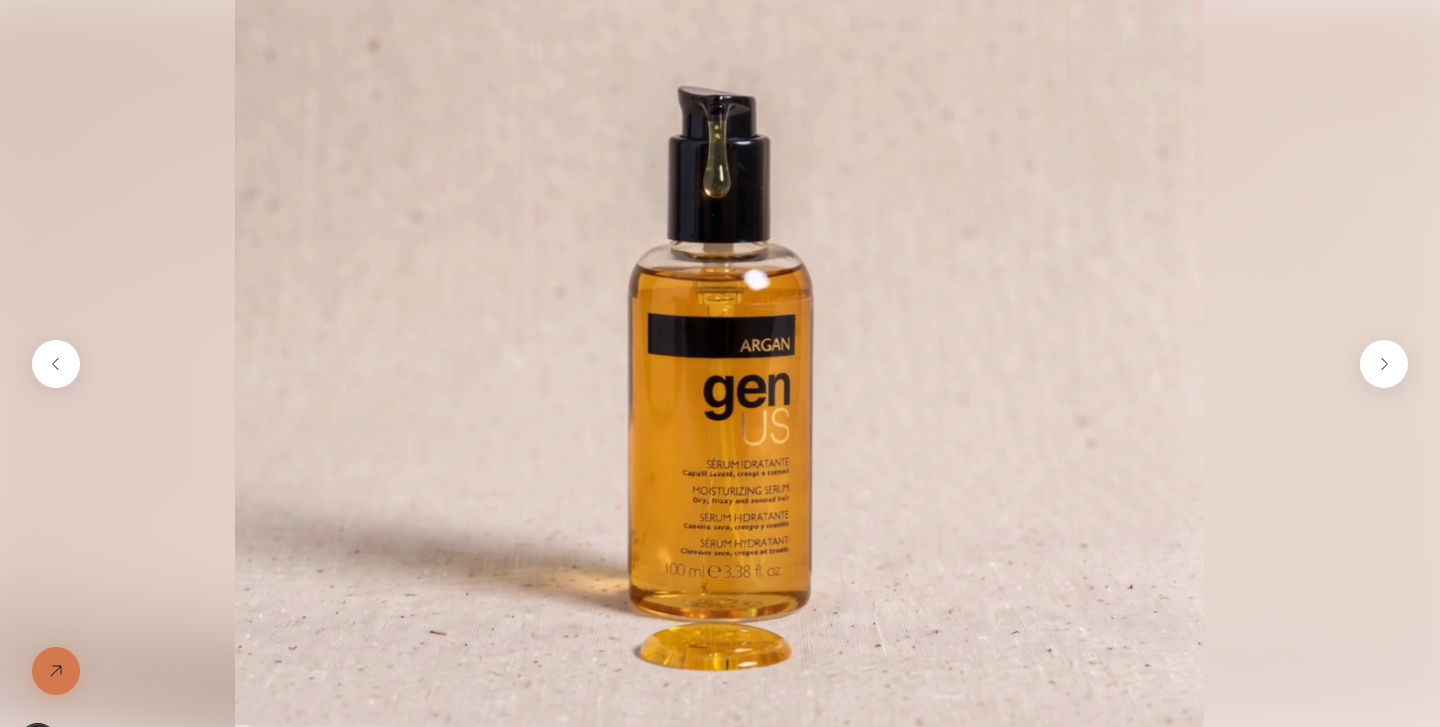
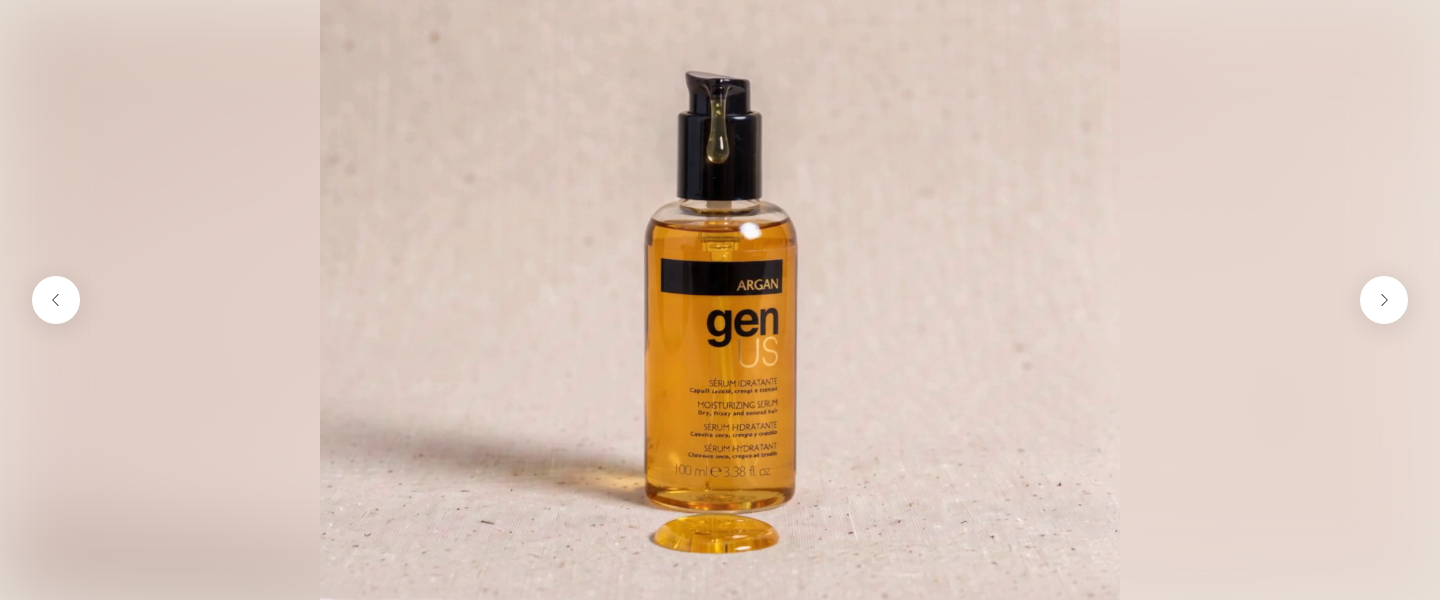
Hero: shorter height, sharper images
600px tall on desktop (max 70% of the screen), 420px on phones, full width,
square corners. No scale or zoom on the slides; photo slides use quality 90,
sizes 100vw and priority. New Adara slide now a full-resolution 3302x2300
crop of the original around her eye and the bottles, focus 80% 25%.
Removed the orange arrow-up-right button (it linked to the current product's
page). Announcement strip is one full-text line; the header search box and
footer newsletter column no longer force a sideways scroll on screens under
1440px, which is what was clipping the strip text.

diff --git a/src/components/home/Hero.tsx b/src/components/home/Hero.tsx
@@ -1,7 +1,6 @@
 "use client";
 
 import Image from "next/image";
-import Link from "next/link";
 import { useCallback, useEffect, useRef, useState } from "react";
 import { useGSAP } from "@gsap/react";
 import { gsap, reducedMotion } from "@/components/motion/gsap";
@@ -24,14 +23,13 @@ const HOLD_MS = 5000;
 const GLIDE_S = 1.6;
 
 const key = (s: HeroSlide) => ("product" in s ? s.product.handle : s.image);
-const linkOf = (s: HeroSlide) => ("product" in s ? { href: `/products/${s.product.handle}`, title: s.product.title } : { href: s.href, title: s.title });
 
 /**
- * Hero slideshow, sized like Peak Design's hero (measured 2026-10-04): a square-edged block that
- * runs edge to edge, 1440 × 727 on desktop and 390 × 397 on phones (Peak's phone hero is that photo
- * plus a 360px text panel; ours has no text panel). One slide at a time: a product slide plays its
- * pour clip, then the next slide glides in slowly; a photo slide holds 5 seconds. Arrows only; the
- * show pauses while hovered or when the tab is hidden.
+ * Hero slideshow: a square-edged block that runs edge to edge, 600px tall on desktop (never more than
+ * 70% of the screen height) and 420px on phones. One slide at a time: a product slide plays its pour
+ * clip, then the next slide glides in slowly; a photo slide holds 5 seconds. Arrows only; the show
+ * pauses while hovered or when the tab is hidden. No scale or zoom is ever applied to the slides, so
+ * the clips (1112×834) and photos stay as sharp as their source.
  */
 export function Hero({ slides }: { slides: HeroSlide[] }) {
   const ref = useRef<HTMLElement>(null);
@@ -54,7 +52,7 @@ export function Hero({ slides }: { slides: HeroSlide[] }) {
         return;
       }
       animating.current = true;
-      gsap.set(to, { autoAlpha: 1, xPercent: 12 * dir, scale: 1.04 });
+      gsap.set(to, { autoAlpha: 1, xPercent: 12 * dir });
       gsap
         .timeline({
           defaults: { duration: GLIDE_S, ease: "power2.inOut" },
@@ -63,8 +61,8 @@ export function Hero({ slides }: { slides: HeroSlide[] }) {
             setIndex(target);
           },
         })
-        .to(from, { xPercent: -12 * dir, scale: 1.04, autoAlpha: 0 }, 0)
-        .to(to, { xPercent: 0, scale: 1 }, 0);
+        .to(from, { xPercent: -12 * dir, autoAlpha: 0 }, 0)
+        .to(to, { xPercent: 0 }, 0);
     },
     [index, count],
   );
@@ -109,12 +107,10 @@ export function Hero({ slides }: { slides: HeroSlide[] }) {
     { scope: ref },
   );
 
-  const current = linkOf(slides[index]);
-
   return (
     <section ref={ref} className="flex flex-col items-center pb-4">
       <div
-        className="hero-stage relative aspect-[390/397] w-full overflow-hidden bg-surface lg:aspect-[1440/727]"
+        className="hero-stage relative h-[420px] w-full overflow-hidden bg-[#e9e2d9] lg:h-[min(600px,70svh)]"
         onPointerEnter={() => setPaused(true)}
         onPointerLeave={() => setPaused(false)}
         aria-roledescription="carousel"
@@ -130,9 +126,9 @@ export function Hero({ slides }: { slides: HeroSlide[] }) {
           >
             {"video" in s ? (
               <>
-                {/* Desktop: the 4:3 clip is taller than the 2:1 hero, so it shows whole (contain) and a blurred
-                    copy of its own still fills the sides. Phones (390×397) are nearly square, so the clip covers. */}
-                <Image src={s.poster} alt="" fill aria-hidden sizes="100vw" className="hidden scale-110 object-cover blur-2xl lg:block" />
+                {/* Desktop: the 4:3 clip is taller than the hero, so it shows whole (contain) and a blurred copy
+                    of its own still fills the sides. Phones (390×420) are nearly square, so the clip covers. */}
+                <Image src={s.poster} alt="" fill aria-hidden sizes="100vw" quality={60} className="hidden object-cover blur-2xl lg:block" />
                 <video
                   src={s.video}
                   poster={s.poster}
@@ -148,7 +144,8 @@ export function Hero({ slides }: { slides: HeroSlide[] }) {
                 src={s.image}
                 alt={s.alt}
                 fill
-                priority={i === 0}
+                priority
+                quality={90}
                 sizes="100vw"
                 className="object-cover"
                 style={{ objectPosition: s.focus ?? "50% 50%" }}
@@ -174,13 +171,6 @@ export function Hero({ slides }: { slides: HeroSlide[] }) {
           <Icon name="caretDown" size={18} className="-rotate-90" />
         </button>
 
-        <Link
-          href={current.href}
-          className="absolute bottom-4 left-4 grid size-12 place-items-center rounded-full bg-accent text-on-accent shadow-[var(--shadow-accent)] transition-colors hover:bg-accent-deep lg:bottom-8 lg:left-8"
-          aria-label={`View ${current.title}`}
-        >
-          <Icon name="arrowUpRight" size={20} />
-        </Link>
       </div>
 
       <div className="hero-mark mt-8 flex flex-col items-center">

diff --git a/src/components/site/Header.tsx b/src/components/site/Header.tsx
@@ -106,10 +106,9 @@ export function Header() {
   return (
     <header className="sticky top-[-40px] z-40 bg-surface">
       {/* Announcement strip: 40px, like peakdesign.com's "Our mission / Find a store" strip */}
-      <div className="grid h-10 grid-cols-[1fr_auto_1fr] items-center bg-surface px-2 text-[14px] uppercase tracking-[0.04em] text-ink lg:px-10">
-        <span className="hidden lg:block">Free US shipping on orders over $75</span>
-        <span className="col-start-2 lg:hidden">Free US shipping over $75</span>
-        <a href="#pro" className="hidden text-right hover:underline hover:underline-offset-4 lg:block">
+      <div className="flex h-10 items-center justify-center gap-6 whitespace-nowrap bg-surface px-4 text-[14px] uppercase tracking-[0.04em] text-ink lg:justify-between lg:px-10">
+        <span className="shrink-0">Free US shipping on orders over $75</span>
+        <a href="#pro" className="hidden shrink-0 text-right hover:underline hover:underline-offset-4 lg:block">
           Pro pricing for licensed stylists
         </a>
       </div>
@@ -146,7 +145,7 @@ export function Header() {
           ))}
         </nav>
 
-        <div className="mx-10 hidden w-[412px] shrink-0 lg:block xl:ml-auto">{search}</div>
+        <div className="mx-6 hidden w-full min-w-0 max-w-[412px] shrink lg:block xl:mx-10 xl:ml-auto">{search}</div>
 
         <div className="flex h-full items-center lg:ml-auto xl:ml-0">
           <Link href="#" className="hidden h-full items-center px-4 text-[16px] text-ink hover:text-muted lg:flex">

diff --git a/src/data/catalog.ts b/src/data/catalog.ts
@@ -515,7 +515,7 @@ export const brands = brandLogos.map((b) => b.name);
  * Hero slideshow, in the owner's order. A product slide plays its approved Higgsfield clip
  * (`video`, with `poster` as the still); an image slide is a plain photo with its own link.
  * `focus` is the CSS object-position used when the slide is cropped to the hero's shape
- * (1440×727 on desktop, 390×397 on phones); default is centre.
+ * (600px tall on desktop, 420px on phones, full width); default is centre.
  */
 export type HeroSlideData =
   | { handle: string; video: string; poster: string; focus?: string }
@@ -530,11 +530,12 @@ export const heroSlides: HeroSlideData[] = [
   { handle: "nirvel-professional-silver-shampoo-moisturizing-250ml-for-gray-hair", video: "/videos/silver-A2.mp4", poster: "/stills/silver-poster.jpg" },
   {
     // New Adara Nails campaign photo (the Gloss Society Kit's cover photo in Shopify; full-size original from newadaranails.com)
-    image: "/images/new-adara-gloss-society.jpg",
+    // Full-resolution crop (3302×2300) of the 3302×5331 original, the band with her eye and the bottles
+    image: "/images/new-adara-gloss-society-wide.jpg",
     alt: "A woman holding New Adara gel polish bottles in front of her face",
     href: "/collections/new-adara",
     title: "New Adara Nails",
-    focus: "50% 38%",
+    focus: "80% 25%",
   },
 ];
 

diff --git a/src/components/site/Footer.tsx b/src/components/site/Footer.tsx
@@ -42,8 +42,8 @@ const cols = [
 export function Footer() {
   return (
     <footer className="bg-canvas text-ink">
-      <div className="container-pd grid gap-12 py-5 lg:grid-cols-[1fr_560px] lg:gap-16 lg:py-16">
-        <nav aria-label="Footer" className="grid grid-cols-2 gap-8 sm:grid-cols-3 lg:mt-8 lg:grid-cols-[224px_224px_224px]">
+      <div className="container-pd grid gap-12 py-5 lg:grid-cols-[1fr_minmax(0,560px)] lg:gap-16 lg:py-16">
+        <nav aria-label="Footer" className="grid grid-cols-2 gap-8 sm:grid-cols-3 lg:mt-8 lg:grid-cols-[repeat(3,minmax(0,224px))]">
           {cols.map((c) => (
             <div key={c.title}>
               <h2 className="mb-6 text-[16px] font-semibold uppercase leading-none tracking-[0.02em] lg:text-[24px]">{c.title}</h2>

diff --git a/CLAUDE.md b/CLAUDE.md
@@ -38,11 +38,12 @@ I'm not very technical. Explain each step in plain language and tell me before r
 - Look: Shop-style layout (28px soft cards, pills, Inter) on linen #f6f1eb, walnut #403a34 text, one accent
   Apricot clay #d4784e. Tokens in `src/app/globals.css`; the live design system is
   https://claude.ai/artifact/FmpZLez9iDpkmvWzpPKGxT and its source files are in `design-system/project/`.
-- Hero: square-edged, edge to edge, sized like peakdesign.com's hero (1440×727 desktop, 390×397 phone; Peak's
-  phone hero is that photo + a 360px text panel). 7 slides in `src/data/catalog.ts` `heroSlides`: 6 product clips
-  (approved Higgsfield takes in `public/videos/`, posters in `public/stills/`) + the New Adara campaign portrait
-  (`public/images/new-adara-gloss-society.jpg`). On desktop the 4:3 clips show whole with a blurred copy of the
-  still filling the sides, so no bottle is cut. Arrows only, no dots. Unused takes in `media-archive/`.
+- Hero: square-edged, edge to edge, 600px tall on desktop (max 70% of the screen height) and 420px on phones.
+  7 slides in `src/data/catalog.ts` `heroSlides`: 6 product clips (1112×834 approved Higgsfield takes in
+  `public/videos/`, 1600×1200 posters in `public/stills/`) + the New Adara campaign portrait
+  (`public/images/new-adara-gloss-society-wide.jpg`, a 3302×2300 full-resolution crop of the 3302×5331 original;
+  its hands are soft in the photo itself). On desktop the 4:3 clips show whole with a blurred copy of the still
+  filling the sides, so no bottle is cut. Arrows only: no dots, no link button, no scale/zoom on the slides.
 - Site photos saved locally in `public/images/`: BaBylissPRO tools (Diamond Pro hero-14, cropped to the tools), Gloss Society Kit
   contents (What's new feature, pinned in `src/data/home.ts`, not replaced by live data).
   Recipe and viscosity notes: DESIGN.md "Cinematic scenes"; reusable skill `/cinematic-scene`.
